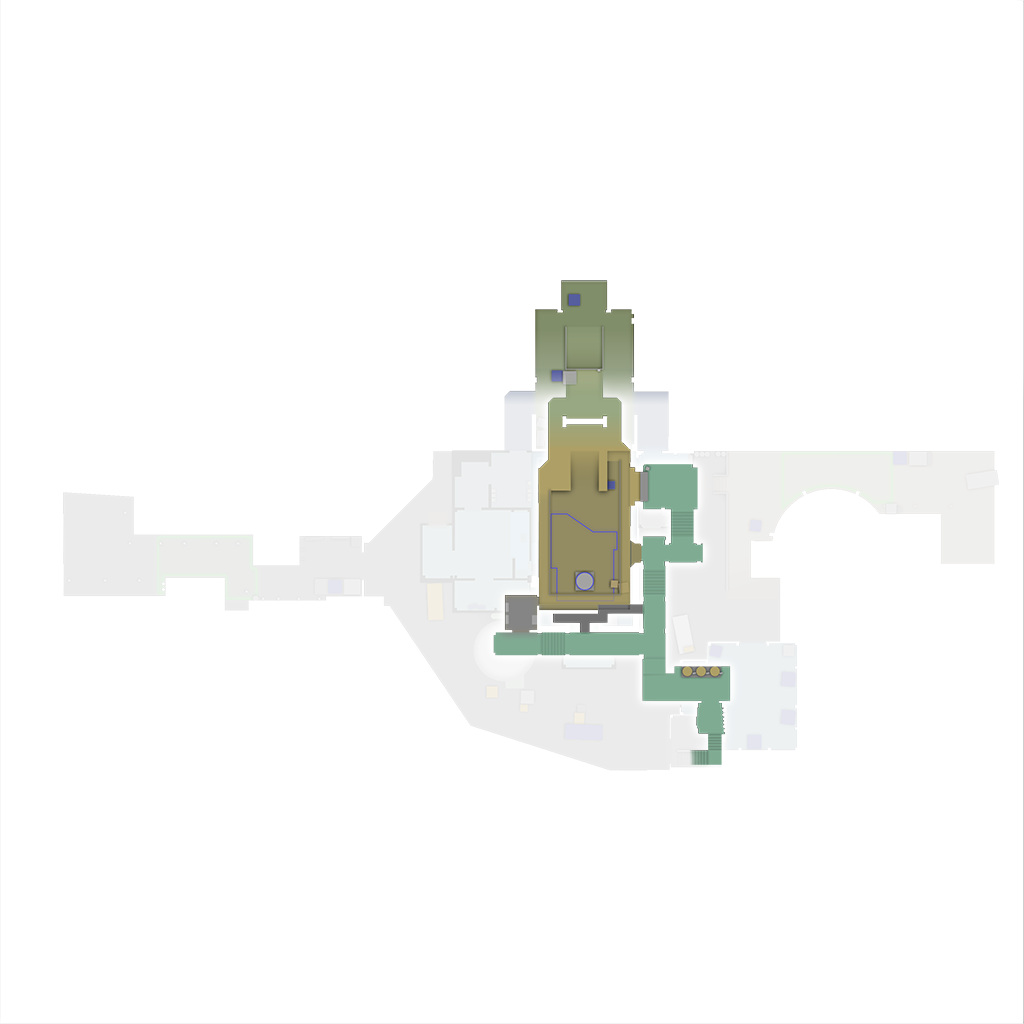
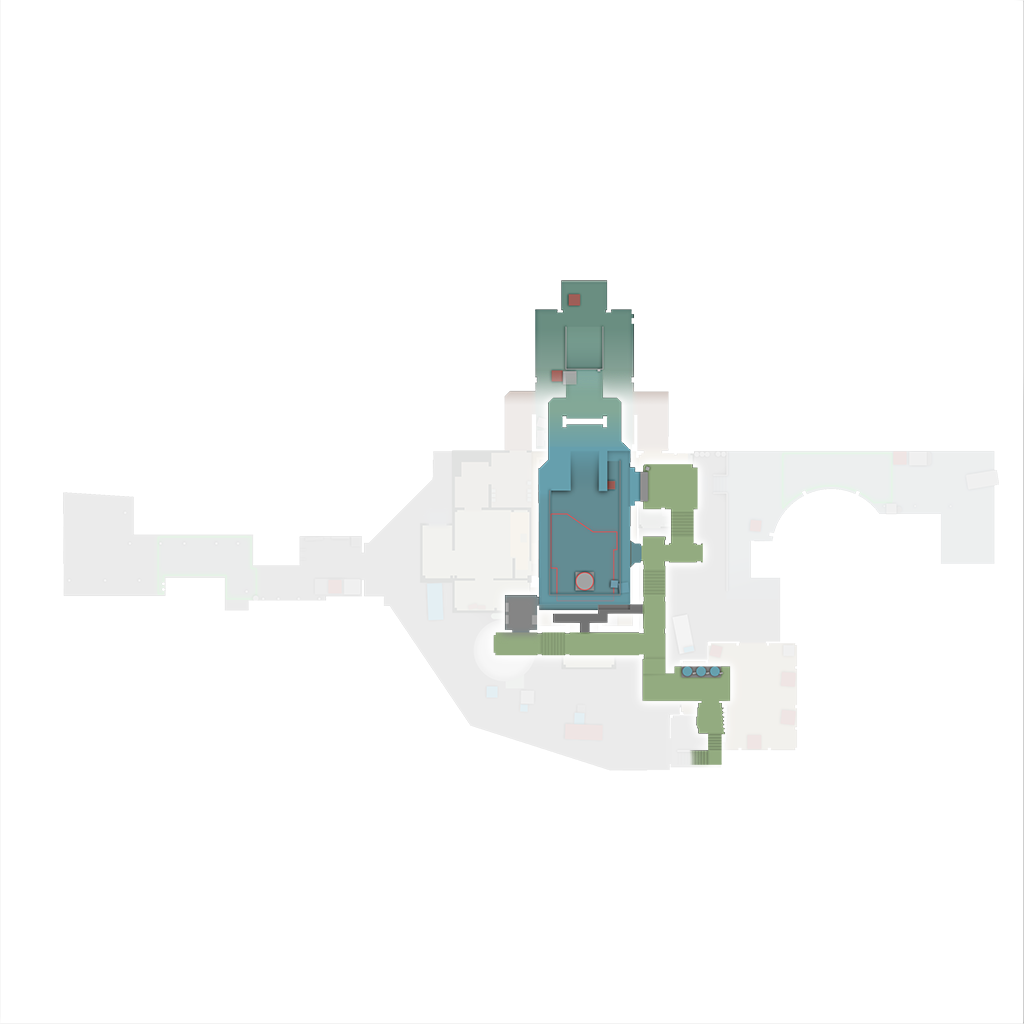
fix(webapp): swap red/blue channels of the nuke and vertigo radar images
The game's radar textures are BGRA, so the first extraction showed red
containers as blue.

Claude-Session: https://claude.ai/code/session_018rTo7X5YaxvNLyJbrk7cAK

Changed region(s): [[0.5, 0.3125, 0.625, 0.5938], [0.5312, 0.2812, 0.5625, 0.3125]]

diff --git a/CLAUDE.md b/CLAUDE.md
@@ -44,7 +44,7 @@ Entry: `webapp/src/app.jsx`
 - `radar.png` — overhead map image
 - `background.webp` — page background (1280 px WebP, ~70 KB; `background.png` is still accepted as a fallback, which is what runtime-extracted maps use)
 - `callouts.json` — named area coordinates for the callout overlay layer
-- `radar_lower.png` + `"lowerBelow": <z>` in `data.json` — optional second level for stacked maps (nuke, vertigo). `Radar` shows the lower image while the local player's z is below the cutoff and dims players on the other level. Values come from the `verticalsections` in the game's `resource/overviews/<map>.txt`; the lower image is `<map>_lower_radar_psd.vtex_c` (LZ4-compressed RGBA8888, 1024x1024).
+- `radar_lower.png` + `"lowerBelow": <z>` in `data.json` — optional second level for stacked maps (nuke, vertigo). `Radar` shows the lower image while the local player's z is below the cutoff and dims players on the other level. Values come from the `verticalsections` in the game's `resource/overviews/<map>.txt`; the lower image is `<map>_lower_radar_psd.vtex_c` (LZ4-compressed BGRA8888, 1024x1024 — swap R and B when decoding).
 
 **Radar coordinate conversion**: world (x, y) → radar pixel = `(worldCoord - mapOrigin) / scale`. Both `Player` and `Bomb` components implement this.
 
